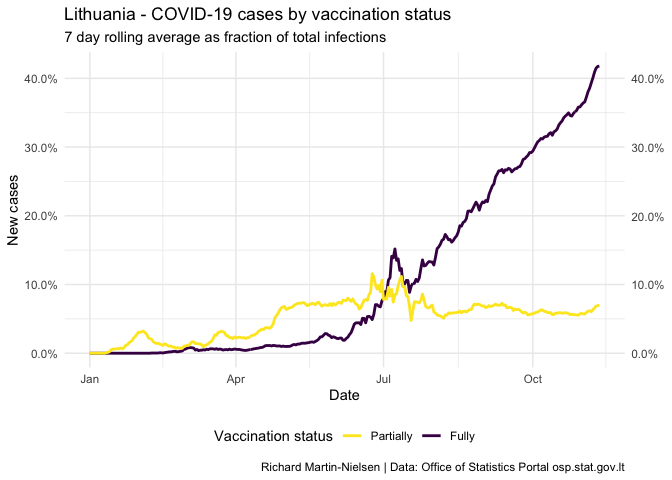
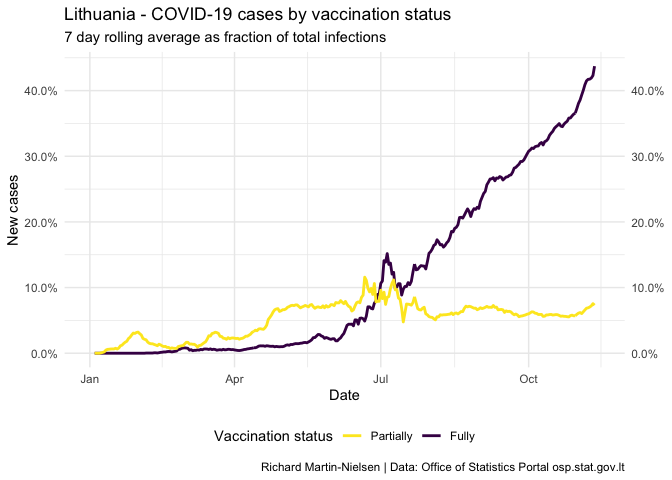
Added comparisons for adults only.

diff --git a/docs/Lithuanian-breakthrough-calculations.md b/docs/Lithuanian-breakthrough-calculations.md
@@ -19,6 +19,16 @@ influences the estimate of the proportional incidence in the
 unvaccinated population and thus the relative incidence in vaccinated
 populations.
 
+Because the level rate of vaccination among Lithuanians below the age of
+20 is much lower than in the rest of the population, I also present
+calculations which only consider the population of 20 and above. The
+vaccine is not available for children under the age of 11, and though
+figures for 18 and 19 year-olds are comparable with older adults, the
+data for vaccination and infection/censoring are only available on 20
+year increments.
+
+![](https://osp.stat.gov.lt/documents/10180/8555211/skiepai_amzius_20211115.png)
+
 ## Data source
 
 These charts are drawn using data published by the [Official Statistics
@@ -35,8 +45,14 @@ repo](https://github.com/RichardMN/lt_covid_calcs).
 
 ![](/lt_covid_calcs/images/cases_graph_fractions-1.png)<!-- -->
 
+![](/lt_covid_calcs/images/cases_graph_fractions_adults-1.png)<!-- -->
+
 ![](/lt_covid_calcs/images/cases_by_status_proportional-1.png)<!-- -->
 
+![](/lt_covid_calcs/images/cases_by_status_proportional_adults-1.png)<!-- -->
+
 ![](/lt_covid_calcs/images/vaccine_effectiveness_7d-1.png)<!-- -->
+
+![](/lt_covid_calcs/images/vaccine_effectiveness_7d_adults-1.png)<!-- -->
 
 ![](/lt_covid_calcs/images/vaccine_effectiveness_14d-1.png)<!-- -->

diff --git a/Lithuanian-breakthrough-calculations.md b/Lithuanian-breakthrough-calculations.md
@@ -35,8 +35,14 @@ repo](https://github.com/RichardMN/lt_covid_calcs).
 
 ![](/lt_covid_calcs/images/cases_graph_fractions-1.png)<!-- -->
 
+![](/lt_covid_calcs/images/cases_graph_fractions_adults-1.png)<!-- -->
+
 ![](/lt_covid_calcs/images/cases_by_status_proportional-1.png)<!-- -->
 
+![](/lt_covid_calcs/images/cases_by_status_proportional_adults-1.png)<!-- -->
+
 ![](/lt_covid_calcs/images/vaccine_effectiveness_7d-1.png)<!-- -->
+
+![](/lt_covid_calcs/images/vaccine_effectiveness_7d_adults-1.png)<!-- -->
 
 ![](/lt_covid_calcs/images/vaccine_effectiveness_14d-1.png)<!-- -->

diff --git a/docs/Lithuanian-age-breakdowns.md b/docs/Lithuanian-age-breakdowns.md
@@ -77,7 +77,7 @@ These charts are inspired by the narrow age cohort graph given by the
 OSP on their [pandemic illustrations
 page](https://osp.stat.gov.lt/pandemijos-iliustracijos):
 
-![](https://osp.stat.gov.lt/documents/10180/8555211/vaiku_atvejai_per14d_100k_20211112.png)
+![](https://osp.stat.gov.lt/documents/10180/8555211/vaiku_atvejai_per14d_100k_20211115.png)
 
 Because the age cohorts given in the two sources used do not align, when
 calculating COVID rates relative to age cohorts, a smaller number of
